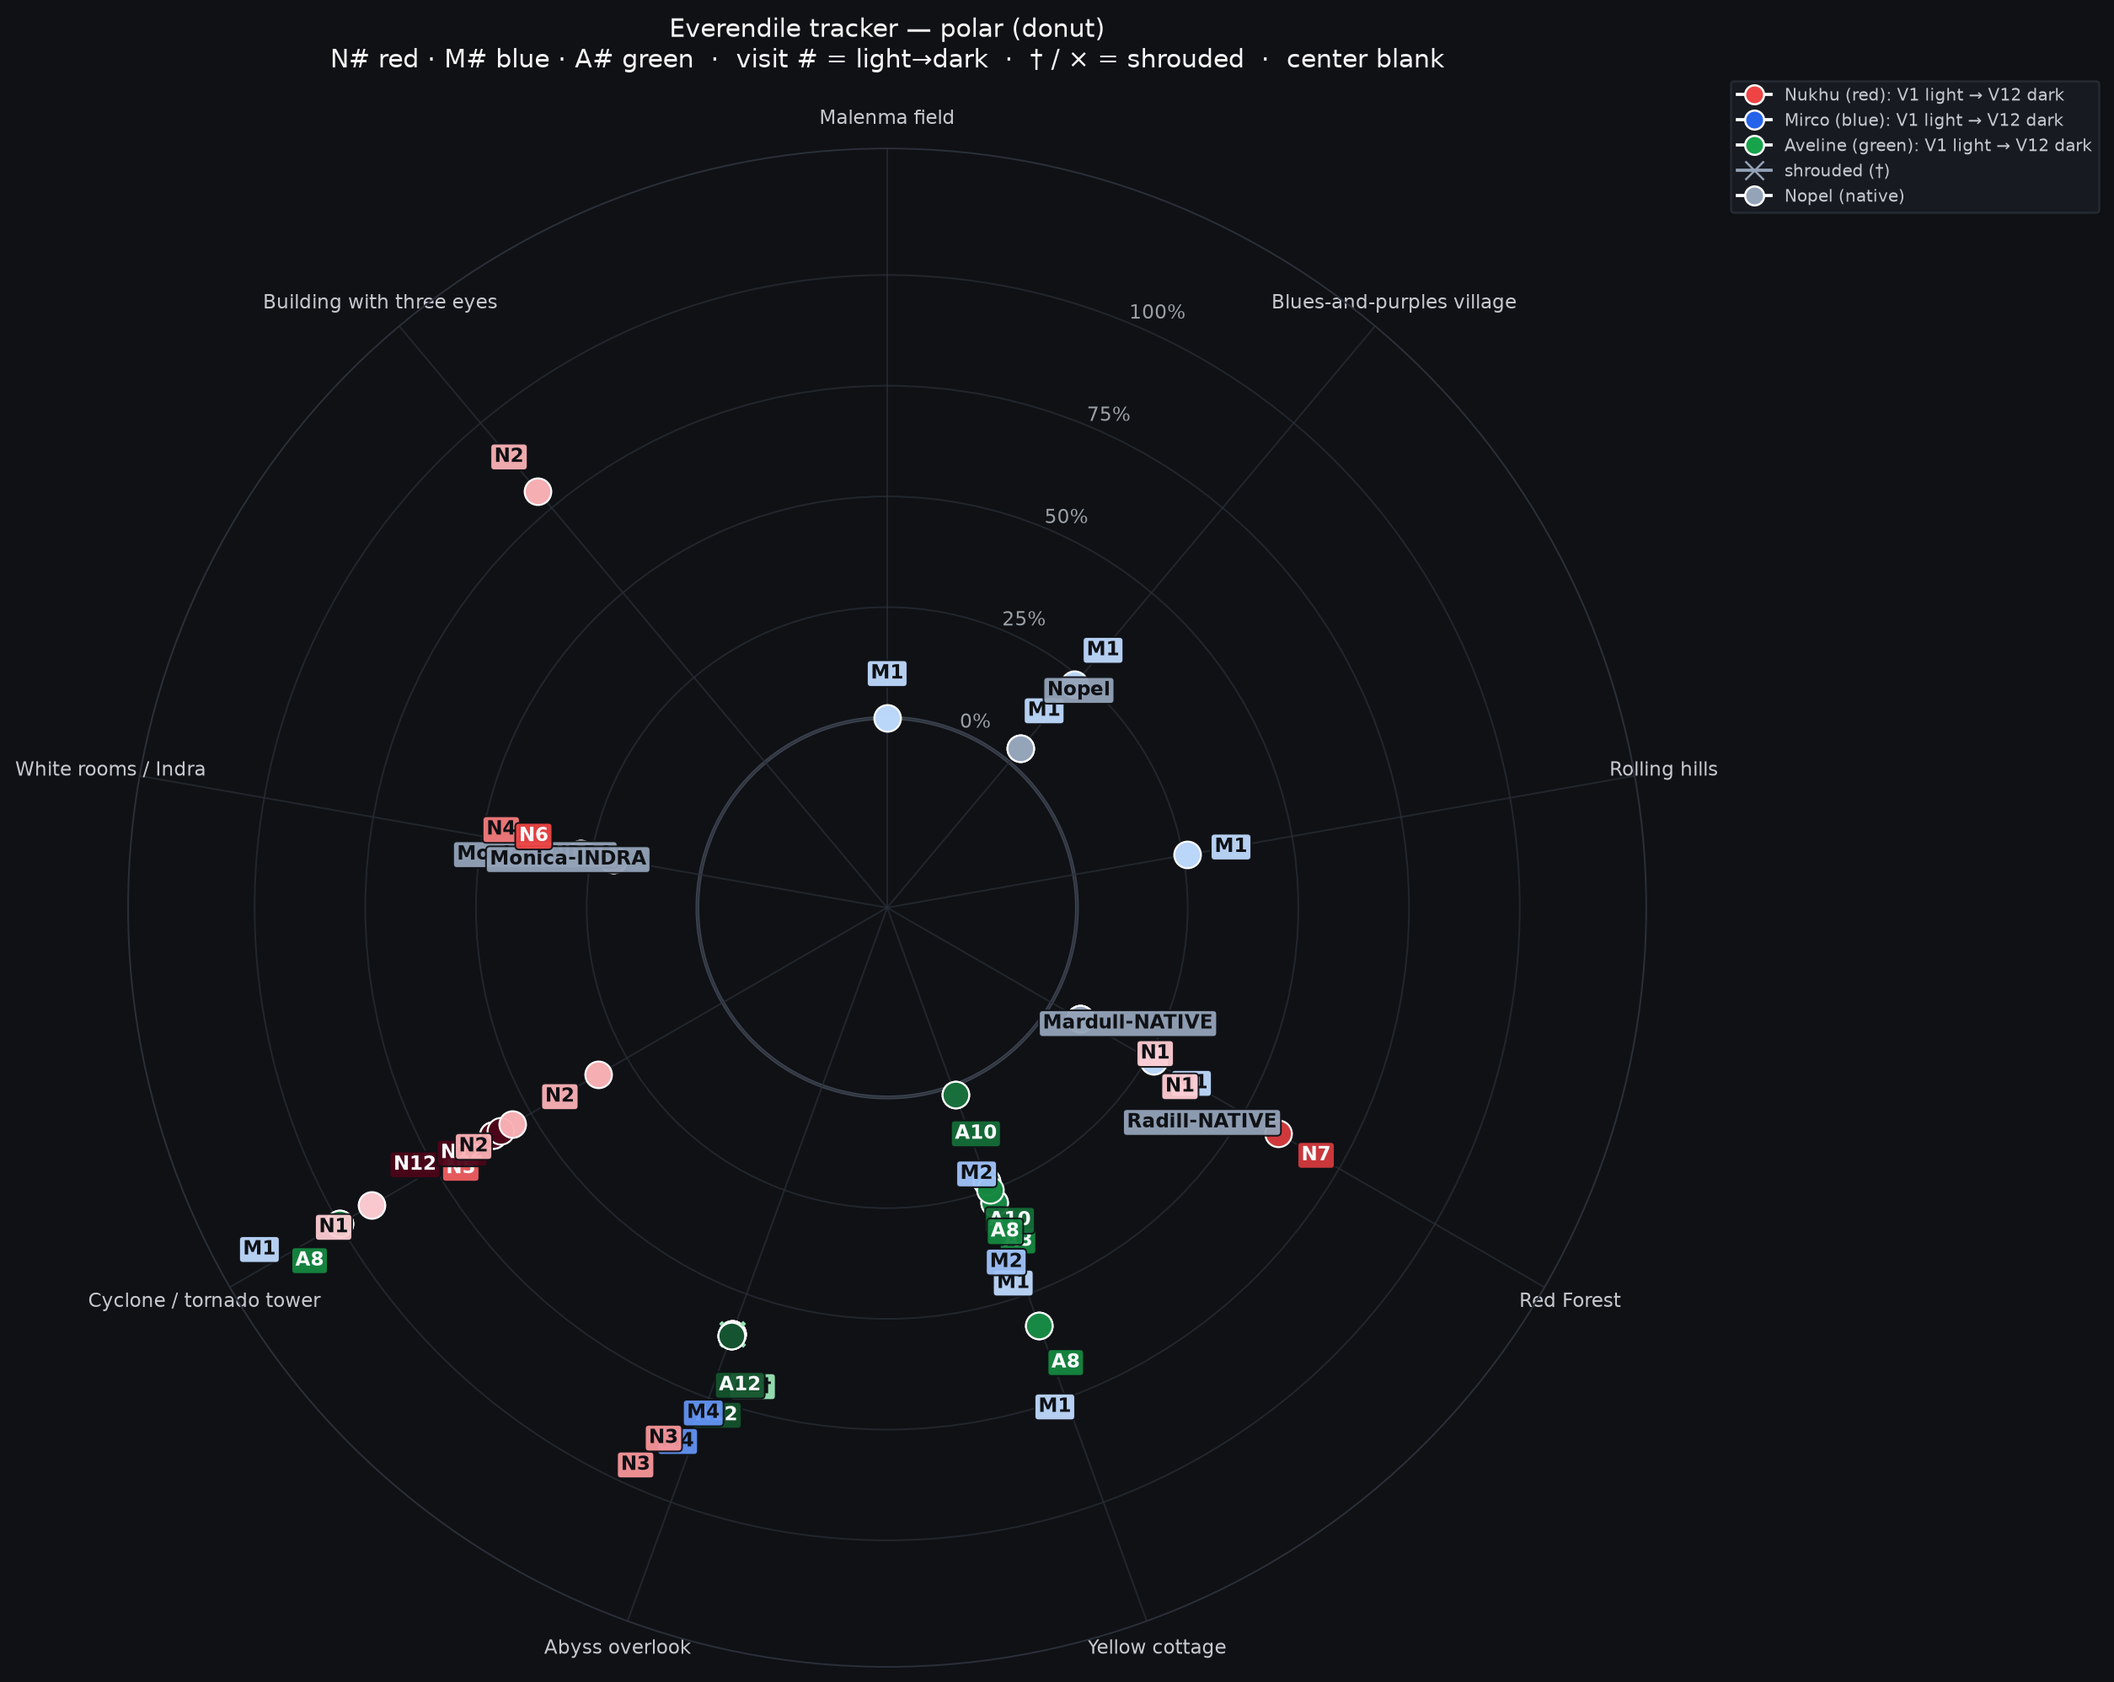
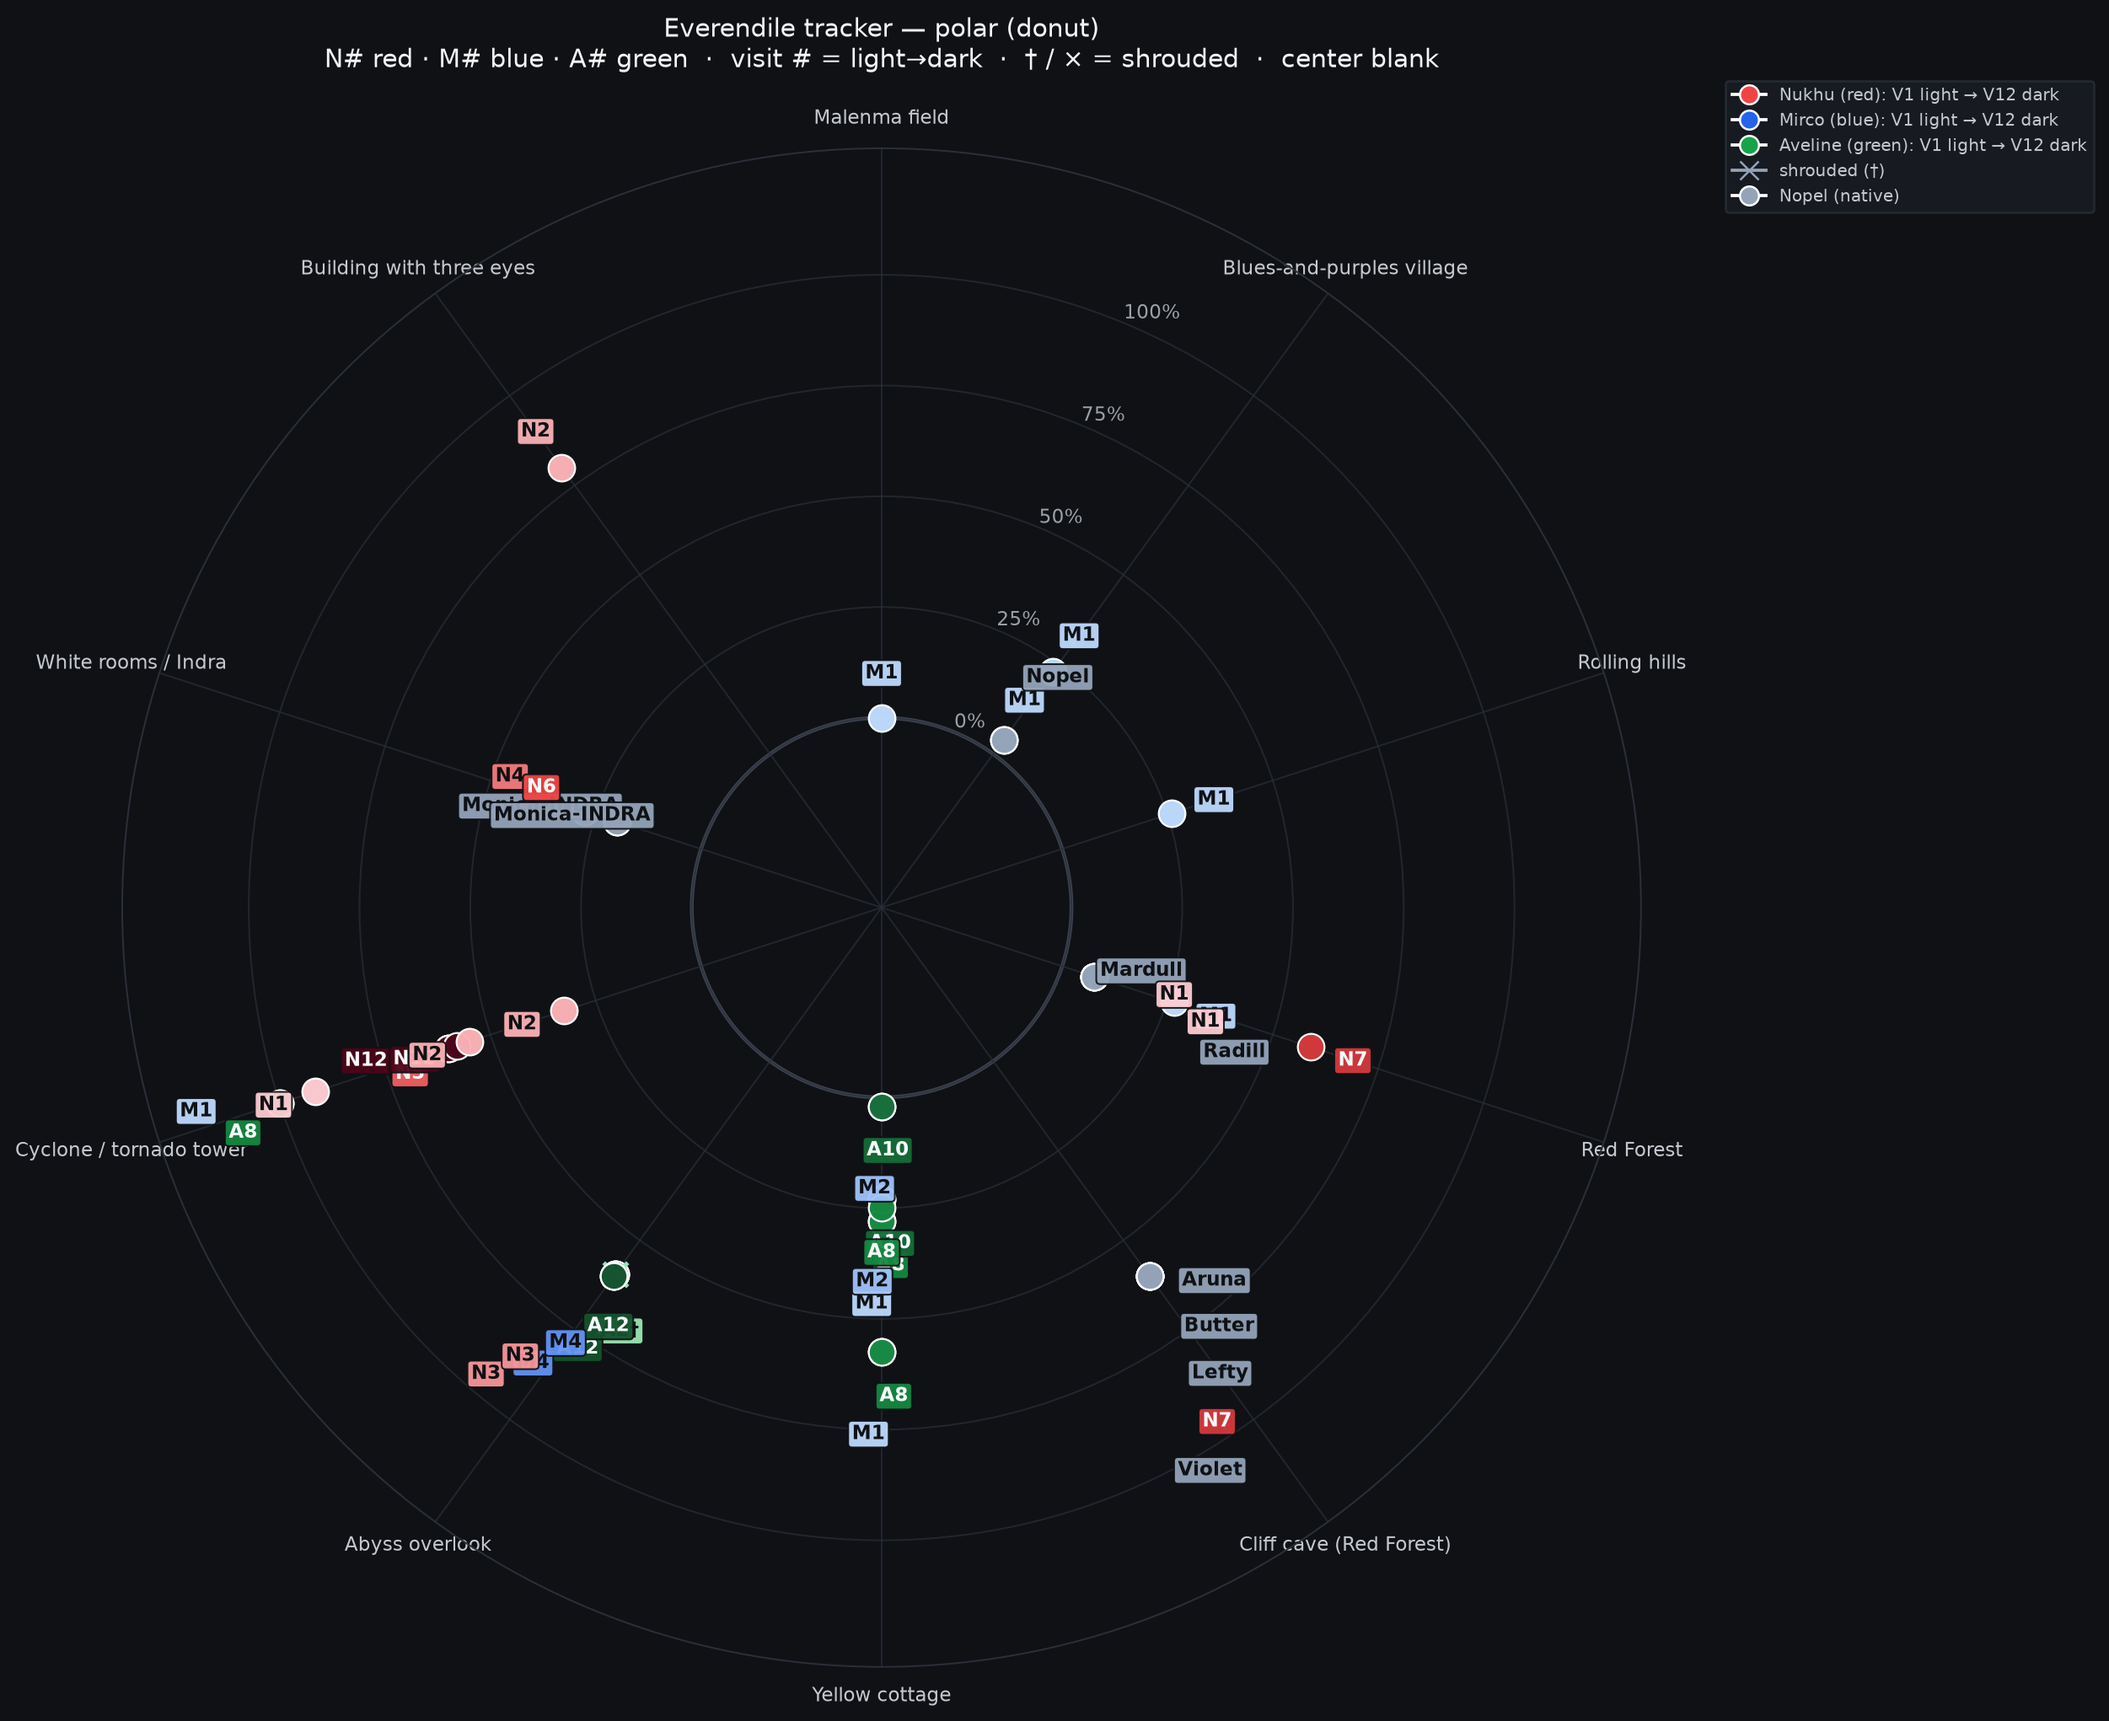
Log Nukhu-V07 cave cloud-lift at 60%; add Aruna, elephants, cave
Author lock (Matt, 2026-11-17): the Ch10 cave scene is Nukhu-V07;
"The clouds are going to clear while he's in the cave." Nukhu-V07 still
arrives at the Red Forest at 59% (B067) to view the elephants, then is
inside the new cliff cave (L_CAVE) at 60% (B068) when the clouds lift.
Adds realm-natives Aruna-NATIVE, Lefty-NATIVE, Butter-NATIVE, and
Violet-NATIVE at the cave on Nukhu-V07 only. Same 60% rail moment as
the speaver death (abyss) and Nukhu-V12 death (cyclone), different place.

diff --git a/index.html b/index.html
@@ -1017,9 +1017,54 @@ const DATA = {
           "place": "Red Forest",
           "shrouded": false,
           "exception": "",
-          "notes": "In the Red Forest to view the pink elephants \u2014 Q3 D18 / 59%; stays through the ~60% cloud lift and watches it from there. Arrival/departure not stated. Matt verbatim: \"Noah goes back to the red forest at visit 7 at 60% to view the elephants\" Correction: \"Make this visit 59% so he can see the cloud shift even from Perod's red forest\"",
+          "notes": "In the Red Forest to view the pink elephants \u2014 Q3 D18 / 59%. Then proceeds to the cliff cave (L_CAVE); is inside the cave, not the open forest, when the clouds clear at 60% (B068). Arrival before 59% / departure not stated. Matt verbatim: \"Noah goes back to the red forest at visit 7 at 60% to view the elephants\" Correction: \"Make this visit 59% so he can see the cloud shift even from Perod's red forest\" Update 2026-11-17: the 60% cloud clearing is witnessed from inside the cave.",
           "code": "N7",
           "with": []
+        },
+        {
+          "beat_id": "B068",
+          "t": 60.0,
+          "label": "Nukhu-V07 in cliff cave as clouds lift (60%)",
+          "place_id": "L_CAVE",
+          "place": "Cliff cave (Red Forest)",
+          "shrouded": false,
+          "exception": "",
+          "notes": "Inside the cliff cave in the Red Forest (Perod) when the clouds clear at 60% (Q3 D20). Arrived at the Red Forest at 59% (B067) to view the elephants; entered the cave during the storm with Lefty, Butter, and Violet. Aruna-NATIVE arrives after him during the storm, around the 60% cloud clearing. Fed the elephants before she returned.",
+          "code": "N7",
+          "with": [
+            {
+              "instance_id": "Aruna-NATIVE",
+              "code": "Aruna-NATIVE",
+              "family": "Aruna",
+              "visit": null,
+              "shrouded": false,
+              "notes": "Arrives at the cliff cave after Nukhu-V07 during the storm, around the 60% cloud clearing. Lives in the cave with Nukhu. Calls him \"Nukhu\". High cheekbones and black waist-length hair. Fears Guillaume will \"cause the Second War.\" Calls the elephants \"the ladies.\" No other appearances logged."
+            },
+            {
+              "instance_id": "Lefty-NATIVE",
+              "code": "Lefty-NATIVE",
+              "family": "Lefty",
+              "visit": null,
+              "shrouded": false,
+              "notes": "Present at the cliff cave with Nukhu-V07 at 60%. Lives in the cave; fed by Noah. Small glowing pink elephant-like creature with a forked tail. Aruna calls them \"the ladies.\" Largest of the three."
+            },
+            {
+              "instance_id": "Butter-NATIVE",
+              "code": "Butter-NATIVE",
+              "family": "Butter",
+              "visit": null,
+              "shrouded": false,
+              "notes": "Present at the cliff cave with Nukhu-V07 at 60%. Lives in the cave; fed by Noah. Small glowing pink elephant-like creature with a forked tail. Aruna calls them \"the ladies.\""
+            },
+            {
+              "instance_id": "Violet-NATIVE",
+              "code": "Violet-NATIVE",
+              "family": "Violet",
+              "visit": null,
+              "shrouded": false,
+              "notes": "Present at the cliff cave with Nukhu-V07 at 60%. Lives in the cave; fed by Noah. Small glowing pink elephant-like creature with a forked tail. Aruna calls them \"the ladies.\""
+            }
+          ]
         }
       ]
     }
@@ -1383,6 +1428,11 @@ const DATA = {
       "beat_id": "B065",
       "t": 60.0,
       "label": "Abyss overlook aftermath (60%)"
+    },
+    {
+      "beat_id": "B068",
+      "t": 60.0,
+      "label": "Nukhu-V07 in cliff cave as clouds lift (60%)"
     },
     {
       "beat_id": "B070",
